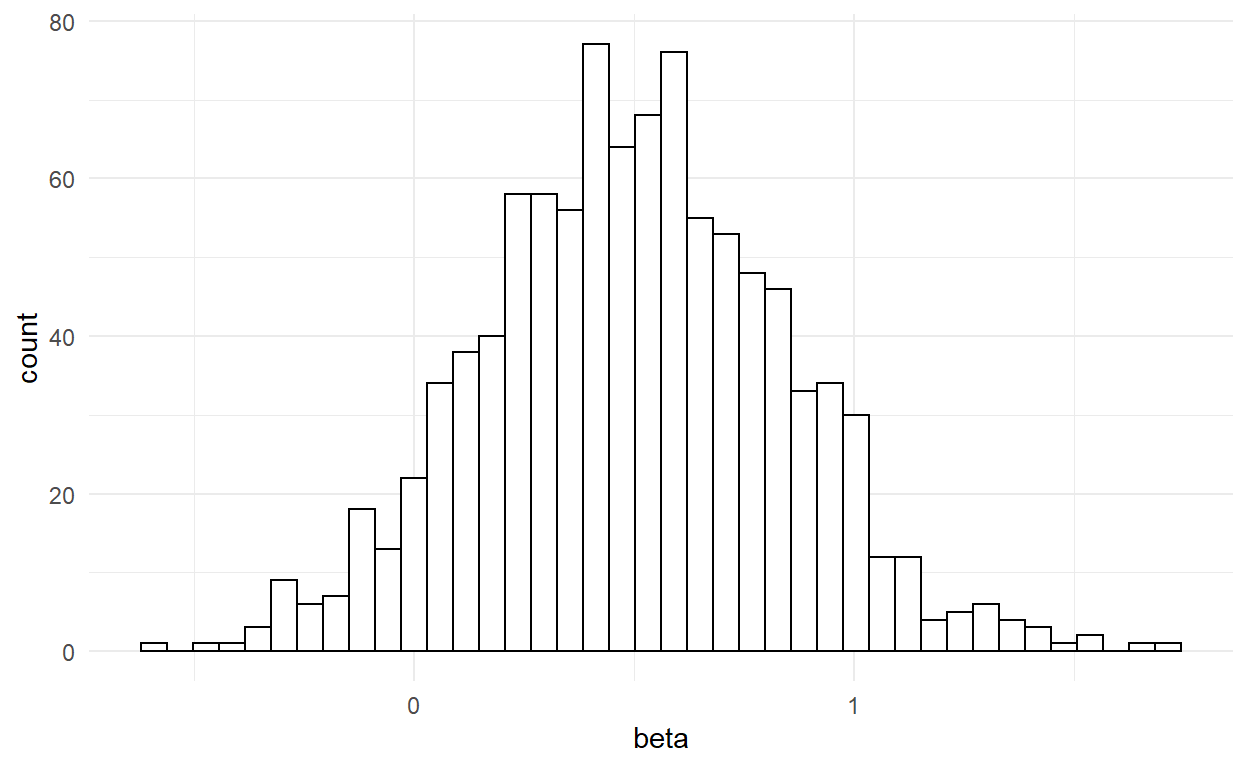
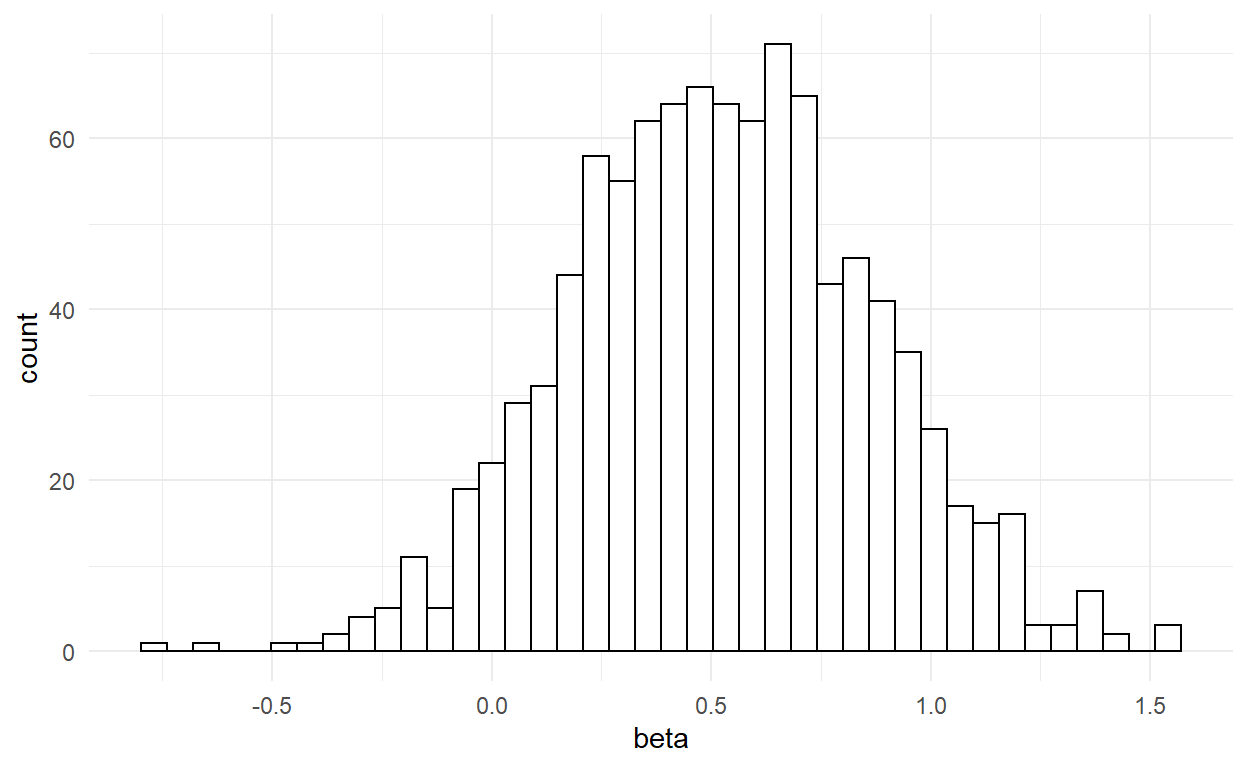
52

diff --git a/docs/posts/exercises/exercises2/index.html b/docs/posts/exercises/exercises2/index.html
@@ -93,8 +93,8 @@ code span.wa { color: #5e5e5e; font-style: italic; } /* Warning */
 <link rel="canonical" href="https://mondpanther.github.io/datastorieshub/posts/exercises/exercises2/"/>
 
 <!--  https://schema.org/Article -->
-<meta property="article:published" itemprop="datePublished" content="2021-09-28"/>
-<meta property="article:created" itemprop="dateCreated" content="2021-09-28"/>
+<meta property="article:published" itemprop="datePublished" content="2021-09-30"/>
+<meta property="article:created" itemprop="dateCreated" content="2021-09-30"/>
 <meta name="article:author" content="Ralf Martin"/>
 
 <!--  https://developers.facebook.com/docs/sharing/webmasters#markup -->
@@ -120,14 +120,14 @@ code span.wa { color: #5e5e5e; font-style: italic; } /* Warning */
 <!--  https://scholar.google.com/intl/en/scholar/inclusion.html#indexing -->
 <meta name="citation_title" content="Datastories Hub: Exercises 2"/>
 <meta name="citation_fulltext_html_url" content="https://mondpanther.github.io/datastorieshub/posts/exercises/exercises2/"/>
-<meta name="citation_online_date" content="2021/09/28"/>
-<meta name="citation_publication_date" content="2021/09/28"/>
+<meta name="citation_online_date" content="2021/09/30"/>
+<meta name="citation_publication_date" content="2021/09/30"/>
 <meta name="citation_author" content="Ralf Martin"/>
 <!--/radix_placeholder_meta_tags-->
   <!--radix_placeholder_rmarkdown_metadata-->
 
 <script type="text/json" id="radix-rmarkdown-metadata">
-{"type":"list","attributes":{"names":{"type":"character","attributes":{},"value":["title","description","author","date","output","categories","editor_options","citation_url","canonical_url"]}},"value":[{"type":"character","attributes":{},"value":["Exercises 2"]},{"type":"character","attributes":{},"value":["Exercises to get familiar with R."]},{"type":"list","attributes":{},"value":[{"type":"list","attributes":{"names":{"type":"character","attributes":{},"value":["name","url"]}},"value":[{"type":"character","attributes":{},"value":["Ralf Martin"]},{"type":"character","attributes":{},"value":["https://mondpanther.github.io/wwwmondpanther/"]}]}]},{"type":"character","attributes":{},"value":["2021-09-29"]},{"type":"list","attributes":{"names":{"type":"character","attributes":{},"value":["distill::distill_article"]}},"value":[{"type":"list","attributes":{"names":{"type":"character","attributes":{},"value":["self_contained"]}},"value":[{"type":"logical","attributes":{},"value":[false]}]}]},{"type":"character","attributes":{},"value":["Exercises"]},{"type":"list","attributes":{"names":{"type":"character","attributes":{},"value":["chunk_output_type"]}},"value":[{"type":"character","attributes":{},"value":["inline"]}]},{"type":"character","attributes":{},"value":["https://mondpanther.github.io/datastorieshub/posts/exercises/exercises2/"]},{"type":"character","attributes":{},"value":["https://mondpanther.github.io/datastorieshub/posts/exercises/exercises2/"]}]}
+{"type":"list","attributes":{"names":{"type":"character","attributes":{},"value":["title","description","author","date","output","categories","editor_options","citation_url","canonical_url"]}},"value":[{"type":"character","attributes":{},"value":["Exercises 2"]},{"type":"character","attributes":{},"value":["Exercises to get familiar with R."]},{"type":"list","attributes":{},"value":[{"type":"list","attributes":{"names":{"type":"character","attributes":{},"value":["name","url"]}},"value":[{"type":"character","attributes":{},"value":["Ralf Martin"]},{"type":"character","attributes":{},"value":["https://mondpanther.github.io/wwwmondpanther/"]}]}]},{"type":"character","attributes":{},"value":["2021-09-30"]},{"type":"list","attributes":{"names":{"type":"character","attributes":{},"value":["distill::distill_article"]}},"value":[{"type":"list","attributes":{"names":{"type":"character","attributes":{},"value":["self_contained"]}},"value":[{"type":"logical","attributes":{},"value":[false]}]}]},{"type":"character","attributes":{},"value":["Exercises"]},{"type":"list","attributes":{"names":{"type":"character","attributes":{},"value":["chunk_output_type"]}},"value":[{"type":"character","attributes":{},"value":["inline"]}]},{"type":"character","attributes":{},"value":["https://mondpanther.github.io/datastorieshub/posts/exercises/exercises2/"]},{"type":"character","attributes":{},"value":["https://mondpanther.github.io/datastorieshub/posts/exercises/exercises2/"]}]}
 </script>
 <!--/radix_placeholder_rmarkdown_metadata-->
   
@@ -2140,7 +2140,7 @@ document.addEventListener('DOMContentLoaded', function() {
 <!--radix_placeholder_front_matter-->
 
 <script id="distill-front-matter" type="text/json">
-{"title":"Exercises 2","description":"Exercises to get familiar with R.","authors":[{"author":"Ralf Martin","authorURL":"https://mondpanther.github.io/wwwmondpanther/","affiliation":"&nbsp;","affiliationURL":"#","orcidID":""}],"publishedDate":"2021-09-28T00:00:00.000+01:00","citationText":"Martin, 2021"}
+{"title":"Exercises 2","description":"Exercises to get familiar with R.","authors":[{"author":"Ralf Martin","authorURL":"https://mondpanther.github.io/wwwmondpanther/","affiliation":"&nbsp;","affiliationURL":"#","orcidID":""}],"publishedDate":"2021-09-30T00:00:00.000+01:00","citationText":"Martin, 2021"}
 </script>
 
 <!--/radix_placeholder_front_matter-->
@@ -2177,7 +2177,7 @@ document.addEventListener('DOMContentLoaded', function() {
 <div class="d-byline">
   Ralf Martin <a href="https://mondpanther.github.io/wwwmondpanther/" class="uri">https://mondpanther.github.io/wwwmondpanther/</a> 
   
-<br/>2021-09-29
+<br/>2021-09-30
 </div>
 
 <div class="d-article">
@@ -2639,7 +2639,7 @@ Answer:
 </code></pre>
 </div>
 </div>
-<p>This tells R to create a new dataframe (<code>covid_julyb</code>) by combinig the information in <code>covid_july</code> and <code>pop</code>. Rows are being matched using the variable <code>state</code>. Maybe you noted that pop has only 2 observations whereas <code>covid_july</code> has 55. This is because <code>pop</code> doesn’t include information on places such as Guam and a couple of other Islands that are not formal US states but controlled by the US, whereas <code>covid_july</code> does. The <code>all.x</code> option tells R to keep observations from the first dataset (i.e. <code>covid_july</code>) even if no equivalent observation in the second dataset can be found. This is also known as a left join. Similarly there is a right join with <code>all.y=TRUE</code> or a full join with <code>all=TRUE</code>. You might want to read a bit more about the merge command e.g. <a href="https://www.dummies.com/programming/r/how-to-use-the-merge-function-with-data-sets-in-r/">here</a></p>
+<p>This tells R to create a new dataframe (<code>covid_julyb</code>) by combinig the information in <code>covid_july</code> and <code>pop</code>. Rows are being matched using the variable <code>state</code>. Maybe you noted that pop has only 52 observations whereas <code>covid_july</code> has 55. This is because <code>pop</code> doesn’t include information on places such as Guam and a couple of other Islands that are not formal US states but controlled by the US, whereas <code>covid_july</code> does. The <code>all.x</code> option tells R to keep observations from the first dataset (i.e. <code>covid_july</code>) even if no equivalent observation in the second dataset can be found. This is also known as a left join. Similarly there is a right join with <code>all.y=TRUE</code> or a full join with <code>all=TRUE</code>. You might want to read a bit more about the merge command e.g. <a href="https://www.dummies.com/programming/r/how-to-use-the-merge-function-with-data-sets-in-r/">here</a></p>
 </div>
 <h3 id="partg">Part(g)</h3>
 <p>Using the newly created dataframe create a new variable COVID cases per capita (i.e. per head of population). Explore the relationship between per capita cases and population density. What kind of relationship would you expect? What do you find?</p>
@@ -2770,17 +2770,17 @@ Answer:
 <pre class="sourceCode r"><code class="sourceCode r"><span class='fu'><a href='https://rdrr.io/r/utils/head.html'>head</a></span><span class='op'>(</span><span class='va'>df</span>,<span class='fl'>10</span><span class='op'>)</span>
 </code></pre>
 </div>
-<pre><code>          eps          X
-1   0.4856098 0.45666531
-2   0.4250705 0.52068524
-3  -0.9589984 0.37642910
-4   0.4073621 0.78430270
-5  -0.7204279 0.10854992
-6  -1.8517362 0.11278312
-7   2.3999178 0.29691438
-8   0.9891476 0.77279643
-9  -0.1282813 0.47812008
-10 -0.6340727 0.02257224</code></pre>
+<pre><code>          eps         X
+1  -1.2900028 0.5958205
+2   0.8168841 0.5829558
+3   1.2326044 0.5726064
+4   0.3055738 0.6577908
+5  -0.3046453 0.9053362
+6   1.7298321 0.1800592
+7   0.9339064 0.3002180
+8  -0.6631717 0.3234343
+9  -0.1526502 0.3775629
+10  1.3318213 0.8236410</code></pre>
 </div>
 <h3 id="part-b-1">Part (b)</h3>
 <p>Now create the Y variable according to the formula above.</p>
@@ -2812,19 +2812,19 @@ Call:
 lm(formula = Y ~ X, data = df)
 
 Residuals:
-    Min      1Q  Median      3Q     Max 
--3.2452 -0.7657 -0.0043  0.7998  2.5112 
+     Min       1Q   Median       3Q      Max 
+-2.37013 -0.54542  0.05759  0.65863  2.52561 
 
 Coefficients:
             Estimate Std. Error t value Pr(&gt;|t|)    
-(Intercept)   1.7109     0.2250   7.605 1.75e-11 ***
-X             1.0989     0.3855   2.851  0.00531 ** 
+(Intercept)   2.4044     0.2211   10.88   &lt;2e-16 ***
+X             0.1349     0.3746    0.36     0.72    
 ---
 Signif. codes:  0 &#39;***&#39; 0.001 &#39;**&#39; 0.01 &#39;*&#39; 0.05 &#39;.&#39; 0.1 &#39; &#39; 1
 
-Residual standard error: 1.102 on 98 degrees of freedom
-Multiple R-squared:  0.07659,   Adjusted R-squared:  0.06717 
-F-statistic: 8.128 on 1 and 98 DF,  p-value: 0.005314</code></pre>
+Residual standard error: 0.95 on 98 degrees of freedom
+Multiple R-squared:  0.001321,  Adjusted R-squared:  -0.008869 
+F-statistic: 0.1296 on 1 and 98 DF,  p-value: 0.7196</code></pre>
 </div>
 </div>
 <h3 id="part-d-1">Part (d)</h3>
@@ -2867,7 +2867,7 @@ Answer:
 <pre class="sourceCode r"><code class="sourceCode r"><span class='fu'><a href='https://rdrr.io/r/base/mean.html'>mean</a></span><span class='op'>(</span><span class='va'>beta</span><span class='op'>)</span>
 </code></pre>
 </div>
-<pre><code>[1] 0.499315</code></pre>
+<pre><code>[1] 0.5226581</code></pre>
 <div class="sourceCode">
 <pre class="sourceCode r"><code class="sourceCode r"><span class='va'>results</span><span class='op'>=</span><span class='fu'><a href='https://rdrr.io/r/base/data.frame.html'>data.frame</a></span><span class='op'>(</span><span class='va'>beta</span><span class='op'>)</span>
 <span class='fu'><a href='https://ggplot2.tidyverse.org/reference/ggplot.html'>ggplot</a></span><span class='op'>(</span><span class='va'>results</span>, <span class='fu'><a href='https://ggplot2.tidyverse.org/reference/aes.html'>aes</a></span><span class='op'>(</span>x<span class='op'>=</span><span class='va'>beta</span><span class='op'>)</span><span class='op'>)</span> <span class='op'>+</span> 
@@ -3075,7 +3075,7 @@ window.onload = function() {
 <div class="appendix-bottom">
   <h3 id="citation">Citation</h3>
   <p>For attribution, please cite this work as</p>
-  <pre class="citation-appendix short">Martin (2021, Sept. 28). Datastories Hub: Exercises 2. Retrieved from https://mondpanther.github.io/datastorieshub/posts/exercises/exercises2/</pre>
+  <pre class="citation-appendix short">Martin (2021, Sept. 30). Datastories Hub: Exercises 2. Retrieved from https://mondpanther.github.io/datastorieshub/posts/exercises/exercises2/</pre>
   <p>BibTeX citation</p>
   <pre class="citation-appendix long">@misc{martin2021exercises,
   author = {Martin, Ralf},

diff --git a/_posts/exercises/exercises2/exercises2.html b/_posts/exercises/exercises2/exercises2.html
@@ -92,8 +92,8 @@ code span.wa { color: #5e5e5e; font-style: italic; } /* Warning */
 
 
   <!--  https://schema.org/Article -->
-  <meta property="article:published" itemprop="datePublished" content="2021-09-29"/>
-  <meta property="article:created" itemprop="dateCreated" content="2021-09-29"/>
+  <meta property="article:published" itemprop="datePublished" content="2021-09-30"/>
+  <meta property="article:created" itemprop="dateCreated" content="2021-09-30"/>
   <meta name="article:author" content="Ralf Martin"/>
 
   <!--  https://developers.facebook.com/docs/sharing/webmasters#markup -->
@@ -111,7 +111,7 @@ code span.wa { color: #5e5e5e; font-style: italic; } /* Warning */
   <!--radix_placeholder_rmarkdown_metadata-->
 
   <script type="text/json" id="radix-rmarkdown-metadata">
-  {"type":"list","attributes":{"names":{"type":"character","attributes":{},"value":["title","description","author","date","output","categories","editor_options"]}},"value":[{"type":"character","attributes":{},"value":["Exercises 2"]},{"type":"character","attributes":{},"value":["Exercises to get familiar with R.\n"]},{"type":"list","attributes":{},"value":[{"type":"list","attributes":{"names":{"type":"character","attributes":{},"value":["name","url"]}},"value":[{"type":"character","attributes":{},"value":["Ralf Martin"]},{"type":"character","attributes":{},"value":["https://mondpanther.github.io/wwwmondpanther/"]}]}]},{"type":"character","attributes":{},"value":["2021-09-29"]},{"type":"list","attributes":{"names":{"type":"character","attributes":{},"value":["distill::distill_article"]}},"value":[{"type":"list","attributes":{"names":{"type":"character","attributes":{},"value":["self_contained"]}},"value":[{"type":"logical","attributes":{},"value":[false]}]}]},{"type":"character","attributes":{},"value":["Exercises"]},{"type":"list","attributes":{"names":{"type":"character","attributes":{},"value":["chunk_output_type"]}},"value":[{"type":"character","attributes":{},"value":["inline"]}]}]}
+  {"type":"list","attributes":{"names":{"type":"character","attributes":{},"value":["title","description","author","date","output","categories","editor_options"]}},"value":[{"type":"character","attributes":{},"value":["Exercises 2"]},{"type":"character","attributes":{},"value":["Exercises to get familiar with R.\n"]},{"type":"list","attributes":{},"value":[{"type":"list","attributes":{"names":{"type":"character","attributes":{},"value":["name","url"]}},"value":[{"type":"character","attributes":{},"value":["Ralf Martin"]},{"type":"character","attributes":{},"value":["https://mondpanther.github.io/wwwmondpanther/"]}]}]},{"type":"character","attributes":{},"value":["2021-09-30"]},{"type":"list","attributes":{"names":{"type":"character","attributes":{},"value":["distill::distill_article"]}},"value":[{"type":"list","attributes":{"names":{"type":"character","attributes":{},"value":["self_contained"]}},"value":[{"type":"logical","attributes":{},"value":[false]}]}]},{"type":"character","attributes":{},"value":["Exercises"]},{"type":"list","attributes":{"names":{"type":"character","attributes":{},"value":["chunk_output_type"]}},"value":[{"type":"character","attributes":{},"value":["inline"]}]}]}
   </script>
   <!--/radix_placeholder_rmarkdown_metadata-->
   
@@ -1455,7 +1455,7 @@ code span.wa { color: #5e5e5e; font-style: italic; } /* Warning */
 <!--radix_placeholder_front_matter-->
 
 <script id="distill-front-matter" type="text/json">
-{"title":"Exercises 2","description":"Exercises to get familiar with R.","authors":[{"author":"Ralf Martin","authorURL":"https://mondpanther.github.io/wwwmondpanther/","affiliation":"&nbsp;","affiliationURL":"#","orcidID":""}],"publishedDate":"2021-09-29T00:00:00.000+01:00","citationText":"Martin, 2021"}
+{"title":"Exercises 2","description":"Exercises to get familiar with R.","authors":[{"author":"Ralf Martin","authorURL":"https://mondpanther.github.io/wwwmondpanther/","affiliation":"&nbsp;","affiliationURL":"#","orcidID":""}],"publishedDate":"2021-09-30T00:00:00.000+01:00","citationText":"Martin, 2021"}
 </script>
 
 <!--/radix_placeholder_front_matter-->
@@ -1477,7 +1477,7 @@ code span.wa { color: #5e5e5e; font-style: italic; } /* Warning */
 <div class="d-byline">
   Ralf Martin <a href="https://mondpanther.github.io/wwwmondpanther/" class="uri">https://mondpanther.github.io/wwwmondpanther/</a> 
   
-<br/>2021-09-29
+<br/>2021-09-30
 </div>
 
 <div class="d-article">
@@ -1939,7 +1939,7 @@ Answer:
 </code></pre>
 </div>
 </div>
-<p>This tells R to create a new dataframe (<code>covid_julyb</code>) by combinig the information in <code>covid_july</code> and <code>pop</code>. Rows are being matched using the variable <code>state</code>. Maybe you noted that pop has only 2 observations whereas <code>covid_july</code> has 55. This is because <code>pop</code> doesn’t include information on places such as Guam and a couple of other Islands that are not formal US states but controlled by the US, whereas <code>covid_july</code> does. The <code>all.x</code> option tells R to keep observations from the first dataset (i.e. <code>covid_july</code>) even if no equivalent observation in the second dataset can be found. This is also known as a left join. Similarly there is a right join with <code>all.y=TRUE</code> or a full join with <code>all=TRUE</code>. You might want to read a bit more about the merge command e.g. <a href="https://www.dummies.com/programming/r/how-to-use-the-merge-function-with-data-sets-in-r/">here</a></p>
+<p>This tells R to create a new dataframe (<code>covid_julyb</code>) by combinig the information in <code>covid_july</code> and <code>pop</code>. Rows are being matched using the variable <code>state</code>. Maybe you noted that pop has only 52 observations whereas <code>covid_july</code> has 55. This is because <code>pop</code> doesn’t include information on places such as Guam and a couple of other Islands that are not formal US states but controlled by the US, whereas <code>covid_july</code> does. The <code>all.x</code> option tells R to keep observations from the first dataset (i.e. <code>covid_july</code>) even if no equivalent observation in the second dataset can be found. This is also known as a left join. Similarly there is a right join with <code>all.y=TRUE</code> or a full join with <code>all=TRUE</code>. You might want to read a bit more about the merge command e.g. <a href="https://www.dummies.com/programming/r/how-to-use-the-merge-function-with-data-sets-in-r/">here</a></p>
 </div>
 <h3 id="partg">Part(g)</h3>
 <p>Using the newly created dataframe create a new variable COVID cases per capita (i.e. per head of population). Explore the relationship between per capita cases and population density. What kind of relationship would you expect? What do you find?</p>
@@ -2070,17 +2070,17 @@ Answer:
 <pre class="sourceCode r"><code class="sourceCode r"><span class='fu'><a href='https://rdrr.io/r/utils/head.html'>head</a></span><span class='op'>(</span><span class='va'>df</span>,<span class='fl'>10</span><span class='op'>)</span>
 </code></pre>
 </div>
-<pre><code>          eps          X
-1   0.4856098 0.45666531
-2   0.4250705 0.52068524
-3  -0.9589984 0.37642910
-4   0.4073621 0.78430270
-5  -0.7204279 0.10854992
-6  -1.8517362 0.11278312
-7   2.3999178 0.29691438
-8   0.9891476 0.77279643
-9  -0.1282813 0.47812008
-10 -0.6340727 0.02257224</code></pre>
+<pre><code>          eps         X
+1  -1.2900028 0.5958205
+2   0.8168841 0.5829558
+3   1.2326044 0.5726064
+4   0.3055738 0.6577908
+5  -0.3046453 0.9053362
+6   1.7298321 0.1800592
+7   0.9339064 0.3002180
+8  -0.6631717 0.3234343
+9  -0.1526502 0.3775629
+10  1.3318213 0.8236410</code></pre>
 </div>
 <h3 id="part-b-1">Part (b)</h3>
 <p>Now create the Y variable according to the formula above.</p>
@@ -2112,19 +2112,19 @@ Call:
 lm(formula = Y ~ X, data = df)
 
 Residuals:
-    Min      1Q  Median      3Q     Max 
--3.2452 -0.7657 -0.0043  0.7998  2.5112 
+     Min       1Q   Median       3Q      Max 
+-2.37013 -0.54542  0.05759  0.65863  2.52561 
 
 Coefficients:
             Estimate Std. Error t value Pr(&gt;|t|)    
-(Intercept)   1.7109     0.2250   7.605 1.75e-11 ***
-X             1.0989     0.3855   2.851  0.00531 ** 
+(Intercept)   2.4044     0.2211   10.88   &lt;2e-16 ***
+X             0.1349     0.3746    0.36     0.72    
 ---
 Signif. codes:  0 &#39;***&#39; 0.001 &#39;**&#39; 0.01 &#39;*&#39; 0.05 &#39;.&#39; 0.1 &#39; &#39; 1
 
-Residual standard error: 1.102 on 98 degrees of freedom
-Multiple R-squared:  0.07659,   Adjusted R-squared:  0.06717 
-F-statistic: 8.128 on 1 and 98 DF,  p-value: 0.005314</code></pre>
+Residual standard error: 0.95 on 98 degrees of freedom
+Multiple R-squared:  0.001321,  Adjusted R-squared:  -0.008869 
+F-statistic: 0.1296 on 1 and 98 DF,  p-value: 0.7196</code></pre>
 </div>
 </div>
 <h3 id="part-d-1">Part (d)</h3>
@@ -2167,7 +2167,7 @@ Answer:
 <pre class="sourceCode r"><code class="sourceCode r"><span class='fu'><a href='https://rdrr.io/r/base/mean.html'>mean</a></span><span class='op'>(</span><span class='va'>beta</span><span class='op'>)</span>
 </code></pre>
 </div>
-<pre><code>[1] 0.499315</code></pre>
+<pre><code>[1] 0.5226581</code></pre>
 <div class="sourceCode">
 <pre class="sourceCode r"><code class="sourceCode r"><span class='va'>results</span><span class='op'>=</span><span class='fu'><a href='https://rdrr.io/r/base/data.frame.html'>data.frame</a></span><span class='op'>(</span><span class='va'>beta</span><span class='op'>)</span>
 <span class='fu'><a href='https://ggplot2.tidyverse.org/reference/ggplot.html'>ggplot</a></span><span class='op'>(</span><span class='va'>results</span>, <span class='fu'><a href='https://ggplot2.tidyverse.org/reference/aes.html'>aes</a></span><span class='op'>(</span>x<span class='op'>=</span><span class='va'>beta</span><span class='op'>)</span><span class='op'>)</span> <span class='op'>+</span> 

diff --git a/docs/index.html b/docs/index.html
@@ -2275,7 +2275,7 @@ function init_posts_list() {
 <a href="posts/exercises/exercises2/" class="post-preview">
 <script class="post-metadata" type="text/json">{"categories":["Exercises"]}</script>
 <div class="metadata">
-<div class="publishedDate">Sept. 28, 2021</div>
+<div class="publishedDate">Sept. 30, 2021</div>
 <div class="dt-authors">
 <div class="dt-author">Ralf Martin</div>
 </div>
